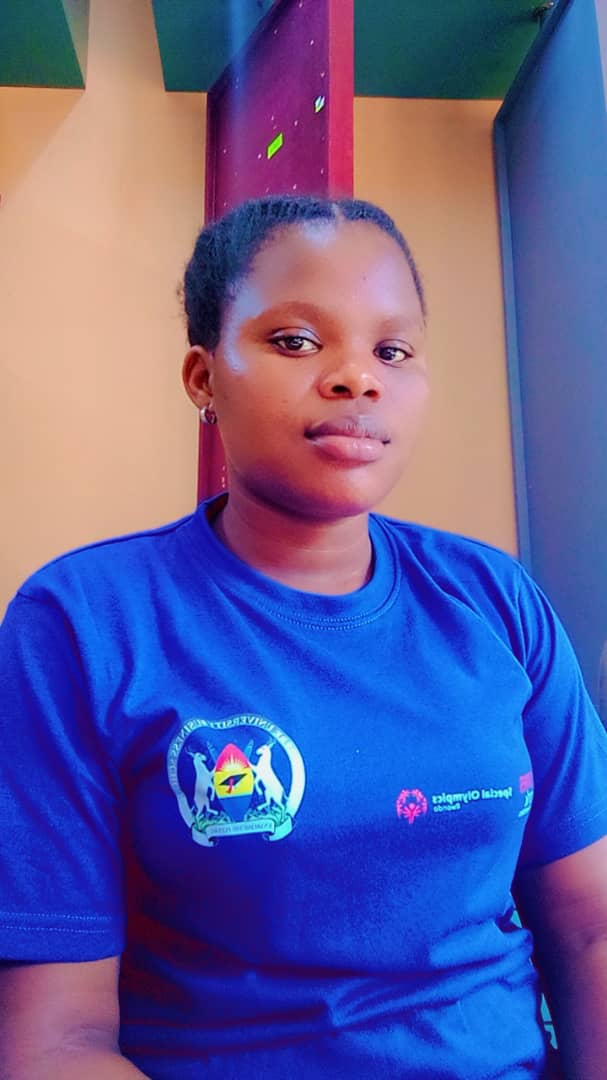
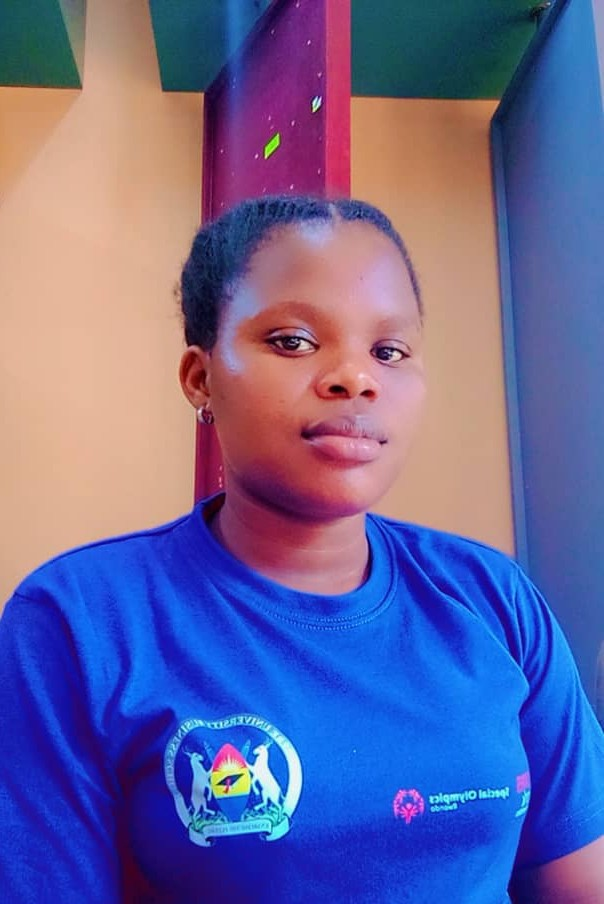
Updated images

diff --git a/index.html b/index.html
@@ -153,7 +153,7 @@
           <div class="flex-item flex-column">
             <p class="text add-top-margin">
               The Smart Energy System (SES) is designed to significantly save energy costs in both homes and workplaces. Unlike other
-              similar systems, this advanced system offers capabilities that go beyond simple monitoring of room occupacy. 
+              systems, this advanced system offers capabilities that go beyond simple monitoring of room occupacy. 
               It not only monitors but also adjusts the environment of the room to suit the user in real-time. 
               effectively. 
               For a comprehensive overview of the project's features, functionalities, and implementation details, please
@@ -239,7 +239,7 @@
             To create a system that accurately identifies occupancy in a room using an Ultra sonic sensor for real time detection
             </p>
             <p class="text">
-            <strong>Implement Immediate Alert Mechanisms:</strong>
+            <strong>Implement Real-Time Mechanisms:</strong>
             To ensure the system promptly activates an LED bulb and fan based on occupancy and temperature conditions
 
             </p>
@@ -267,7 +267,7 @@
             <h2 id="functional-requirements">Functional Requirements</h2>
             <hr>
             <p class="text">
-              <strong>Allows Human Prsence Detection and Triggering:</strong>
+              <strong>Allows Human Presence Detection and Triggering:</strong>
               The Ultra sonic sensor allows detection of human presence in the premises and triggers the LED bulb via a relay module
             </p>
             <p class="text">
@@ -383,7 +383,7 @@
 
         <div class="flex-row">
           <div class="flex-item flex-item-stretch flex-column">
-            <img class="image max-width-400" src="img/images.jpg">
+            <img class="image max-width-400" src="img/deo.jpg">
           </div>
           <div class="flex-item flex-item-stretch-4 flex-column">
             <p class="text">
